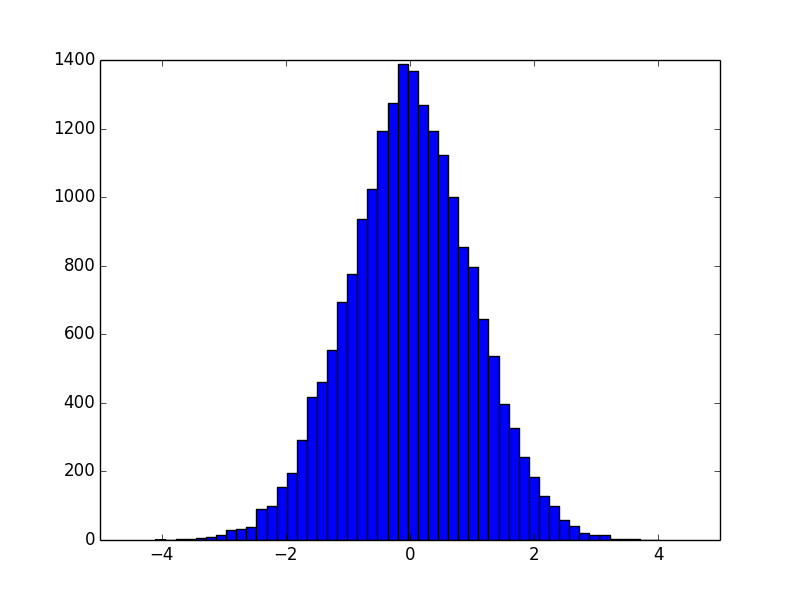
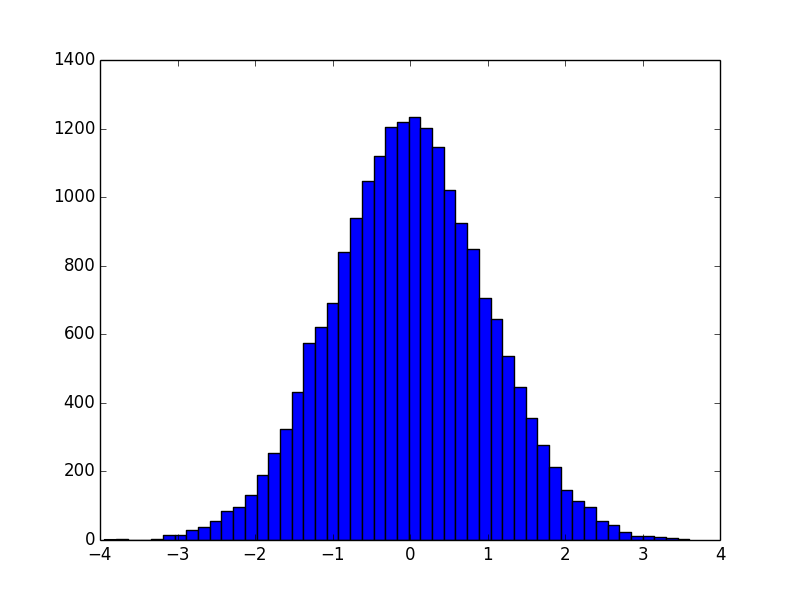
Added boundedUniform transformation

Changed region(s): [[0.1875, 0.09, 0.8438, 0.93], [0.875, 0.9, 0.9062, 0.93], [0.125, 0.9, 0.1562, 0.93]]

diff --git a/docs/analysis.py b/docs/analysis.py
@@ -40,7 +40,7 @@ def main():
         plot_activation_functions(activation)
 
     distribution_types = [
-        "normal", "uniform"
+        "normal", "uniform", "bounded_uniform"
     ]
 
     for distribution in distribution_types:
